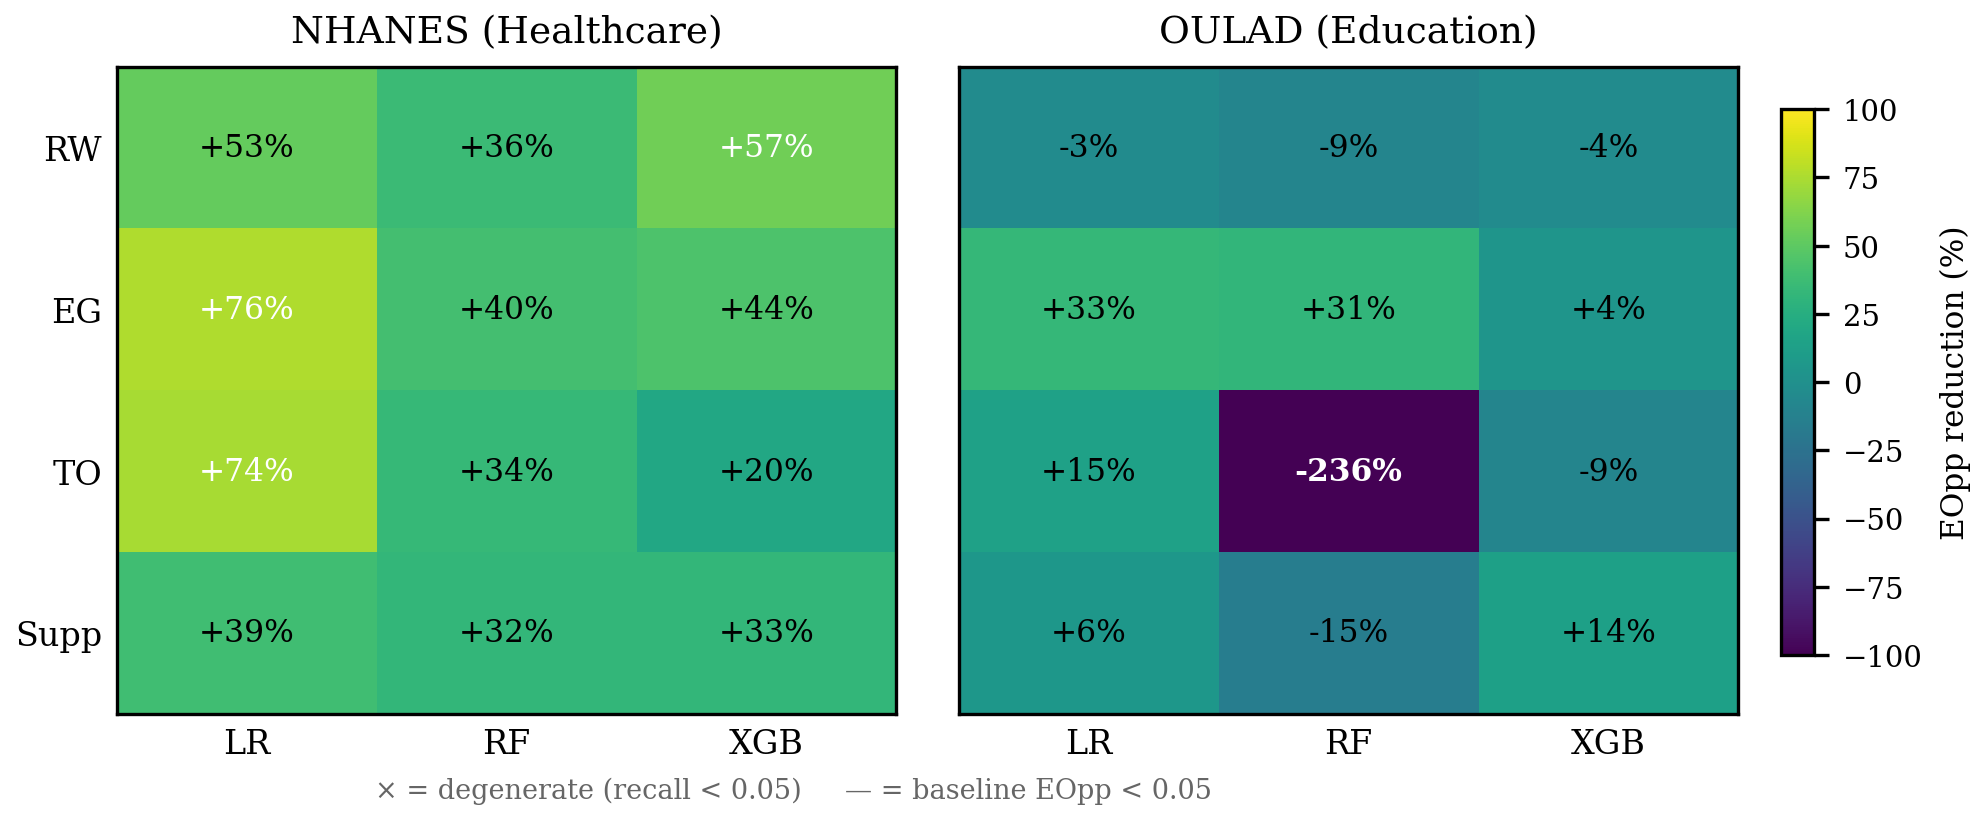
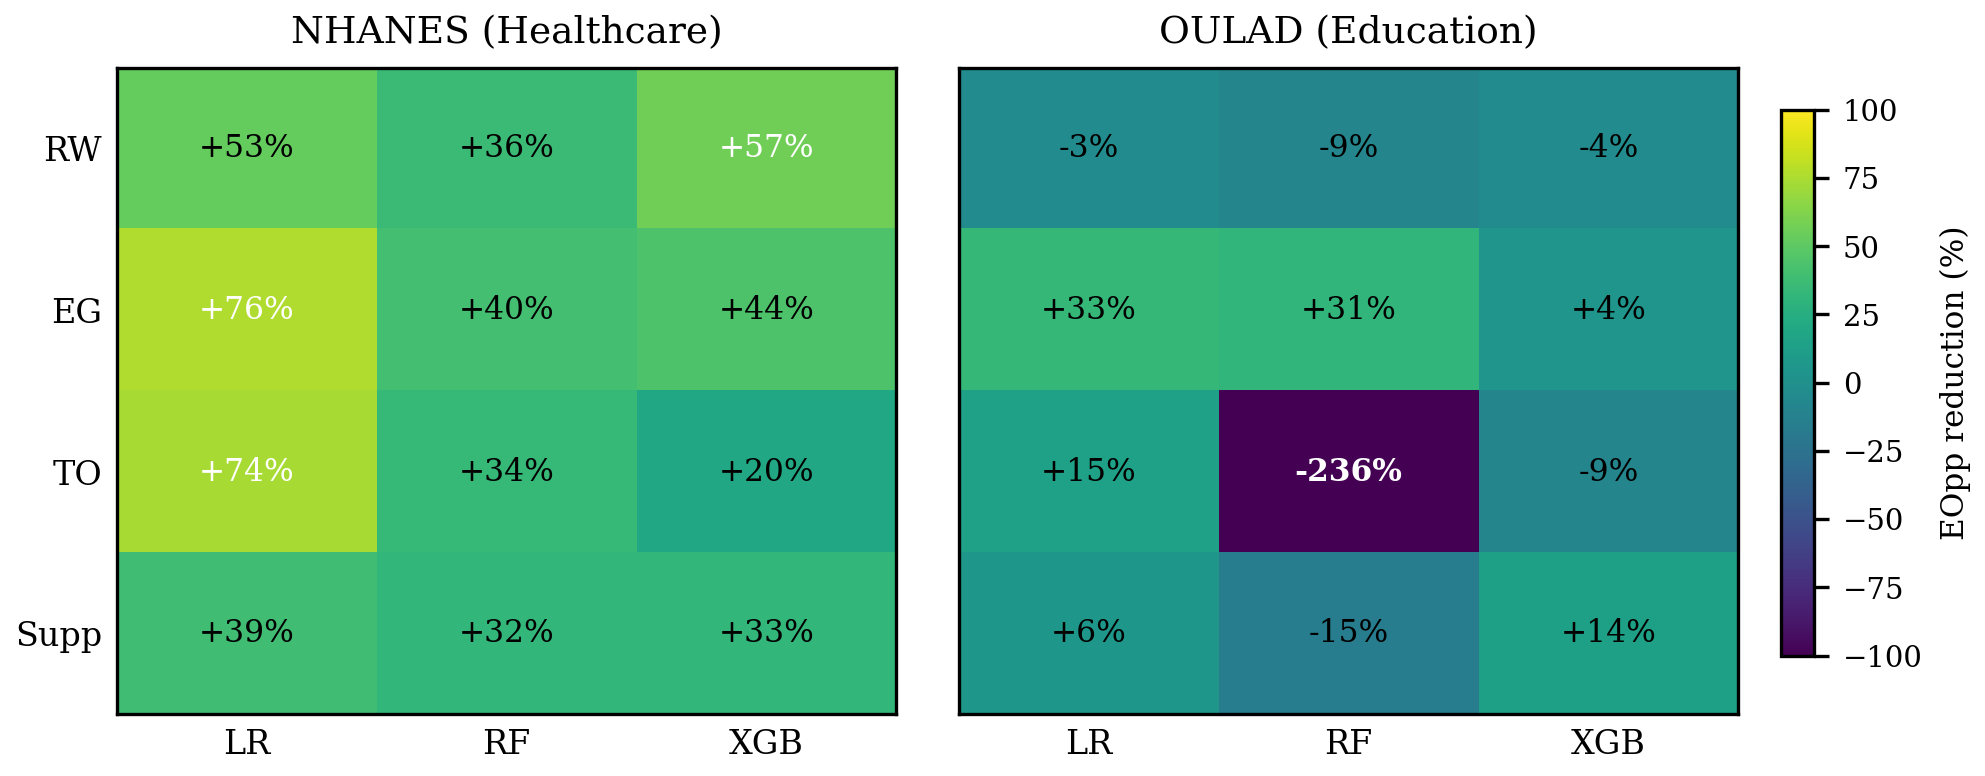
day20 update visualization

diff --git a/src/nhanes/visualization.py b/src/nhanes/visualization.py
@@ -1046,17 +1046,9 @@ def f4_mit_detail_gap_dumbbell():
 
 
 # Cross-domain code
-# ═══════════════════════════════════════════════════════════════════════════
 # Shared helper: compute % EOpp reduction per (model, method)
-# averaged across valid attributes.
 # Filters: recall < 0.05 (degenerate), baseline EOpp < 0.05 (unstable %)
-# ═══════════════════════════════════════════════════════════════════════════
 def _eopp_reduction_matrix(df, attrs, recall_thr=0.05, base_thr=0.05):
-    """
-    Returns:
-        mat: (4 methods × 3 models) array of avg % reduction, NaN where no valid attr
-        degen: same shape, True where ALL valid attrs were degenerate
-    """
     methods = ["Reweighing", "ExponentiatedGradient", "ThresholdOptimizer", "Suppression"]
     mat = np.full((len(methods), len(MODEL_ORDER)), np.nan)
     mask_degen = np.zeros_like(mat, dtype=bool)
@@ -1093,12 +1085,58 @@ def _eopp_reduction_matrix(df, attrs, recall_thr=0.05, base_thr=0.05):
     return mat, mask_degen
  
  
-# ═══════════════════════════════════════════════════════════════════════════
-# [CROSSDOMAIN] X1 — Side-by-side heatmap: % EOpp reduction
-#
-# Best for PAPER. Shows per-model × per-method granularity.
-# Color scale clipped to ±100% so outliers (RF+TO = -236%) stay readable.
-# ═══════════════════════════════════════════════════════════════════════════
+
+"""
+figure 11: Cross-Domain Heatmap — % EOpp Reduction per Model × Method
+
+Each cell = mean % EOpp reduction across sensitive attributes for that model+method combo.
+Positive = improvement (green/yellow), negative = backfire (dark purple).
+Baseline EOpp < 0.05 attributes skipped (nothing to reduce).
+Degenerate models (recall < 0.05) excluded and marked ×.
+
+★ NHANES all positive (every cell +20% or above).
+  OULAD mixed: only EG consistently positive, other 3 methods near-zero or backfire.
+
+# NHANES(left panel):
+2. LR benefits most: EG +76%, TO +74%, RW +53%
+   → linear boundary is easiest to constrain/adjust
+3. EG has the highest floor (+40%) and ceiling (+76%)
+   → strongest single method, but variable across models (range 36pp)
+4. Suppression most stable across models (range only 7pp) but lowest ceiling (+39%)
+   → helps everywhere, solves nowhere
+5. TO most variable: LR +74% vs XGB +20% (range 54pp)
+   → highly dependent on base model, not blindly transferable   
+
+
+OULAD (right panel):
+1. RW: all three models negative (-3%, -9%, -4%)
+   → reweighing consistently backfires in education domain.
+   OULAD baseline bias is already mild, reweighing overshoots
+2. EG: the only method with meaningful positive numbers
+   (LR +33%, RF +31%), but XGB only +4%
+   → in-processing constraint is the only thing that transfers
+3. ★ RF+TO = -236%. catastrophic backfire.
+   this is the single most extreme cell in the entire figure.
+   ThresholdOptimizer on RF amplifies disparity instead of reducing it.
+4. Suppression: mixed bag (LR +6%, RF -15%, XGB +14%)
+   → no clear direction, confirms suppression is unreliable
+
+Cross-domain patterns:
+1. ★ the two domains have fundamentally different fairness landscapes.
+   NHANES has deep structural bias (race EOpp up to 0.68, income 0.47)
+   that methods can meaningfully reduce.
+   OULAD has mild baseline bias — mitigation methods often overshoot
+   or have nothing meaningful to fix, leading to near-zero or negative results.
+2. EG is the only method that works in both domains.
+   RW transfers worst (strong in NHANES, backfires in OULAD).
+   TO is domain-dependent and unstable (strong in NHANES, catastrophic on OULAD RF).
+3. RF is the problematic model in OULAD: TO -236%, Supp -15%, RW -9%.
+   only EG (+31%) saves it. in NHANES, RF is middle-of-the-road, no disasters.
+   → same model, opposite behavior across domains
+4. practical takeaway: mitigation methods designed for high-bias settings
+   (healthcare) do not safely transfer to low-bias settings (education).
+   applying them blindly can make fairness worse, not better.
+"""
 def x1_crossdomain_heatmap():
     ieee_style()
     methods = ["Reweighing", "ExponentiatedGradient", "ThresholdOptimizer", "Suppression"]
@@ -1159,23 +1197,42 @@ def x1_crossdomain_heatmap():
     cbar.set_label("EOpp reduction (%)", fontsize=7.5, labelpad=4)
     cbar.ax.tick_params(labelsize=7)
  
-    fig.text(
-        0.44, 0.01,
-        "× = degenerate (recall < 0.05)     — = baseline EOpp < 0.05",
-        ha="center", fontsize=6.5, color="#666666",
-    )
+    # fig.text(
+    #     0.44, 0.01,
+    #     "× = degenerate (recall < 0.05)     — = baseline EOpp < 0.05",
+    #     ha="center", fontsize=6.5, color="#666666",
+    # )
     save(fig, "x1_crossdomain_heatmap")
  
 
 
 
+"""
+figure 12: Cross-Domain Bar Chart — Avg EOpp Reduction per Method
 
-# ═══════════════════════════════════════════════════════════════════════════
-# [CROSSDOMAIN] X2 — Grouped bar: avg % EOpp reduction per method
-#
-# Best for PPT / viva. Simpler aggregate view.
-# Error bars = range across 3 models.
-# ═══════════════════════════════════════════════════════════════════════════
+Each bar = average % EOpp reduction across 3 models × 3 sensitive attrs,
+for one mitigation method in one domain.
+Error bars = std across model×attribute combos (shows variability).
+Positive bar = method reduced bias on average. Negative = made it worse.
+Degenerate cases (recall < 0.05) excluded before averaging.
+
+★ NHANES (blue): all four methods positive (+34% to +54%).
+  EG best (+54%), RW close behind (+49%), TO and Supp lower but still solid.
+  All error bars moderate — methods work fairly consistently.
+
+★ OULAD (orange): only EG positive (+23%), everything else near-zero or negative.
+  TO = -77%, driven by RF+TO catastrophic backfire (-236%).
+  RW = -5%, Supp = +2% — basically no effect or slight harm.
+
+Key takeaway:
+1. EG is the only method that transfers across domains.
+2. NHANES has deep bias → methods have room to improve.
+   OULAD has mild bias → methods overshoot or have nothing to fix.
+3. TO is the riskiest method: best-case +43% (NHANES), worst-case -77% (OULAD).
+   High variance = not safe to deploy without domain validation.
+4. RW and Supp are near-zero in OULAD — harmless but useless.
+"""
+
 def x2_crossdomain_bar():
     ieee_style()
     methods = ["Reweighing", "ExponentiatedGradient", "ThresholdOptimizer", "Suppression"]
@@ -1248,7 +1305,7 @@ def x2_crossdomain_bar():
     ax.set_xticklabels([METHOD_SHORT[m] for m in methods])
     ax.set_ylabel("Avg EOpp reduction (%)")
     ax.set_title("Cross-domain mitigation effectiveness")
-    ax.legend(loc="upper left", framealpha=0.9)
+    ax.legend(loc="upper right", framealpha=0.9)
     ax.spines[["top", "right"]].set_visible(False)
  
     # clip y so the RF+TO outlier does not dominate
@@ -1273,112 +1330,17 @@ def x2_crossdomain_bar():
             arrowprops=dict(arrowstyle="->", color="#c0392b", lw=1.2),
         )
  
-    ax.text(
-        0.5, -0.12,
-        "Error bars = range across 3 models. "
-        "Excludes degenerate (recall < 0.05) and near-zero baselines (EOpp < 0.05)",
-        transform=ax.transAxes, ha="center", fontsize=6, color="#666666",
-    )
+    # ax.text(
+    #     0.5, -0.12,
+    #     "Error bars = range across 3 models. "
+    #     "Excludes degenerate (recall < 0.05) and near-zero baselines (EOpp < 0.05)",
+    #     transform=ax.transAxes, ha="center", fontsize=6, color="#666666",
+    # )
     fig.tight_layout()
     save(fig, "x2_crossdomain_bar")
  
  
-# ═══════════════════════════════════════════════════════════════════════════
-# [CROSSDOMAIN] X3 — Dumbbell: absolute EOpp baseline → best mitigation
-#
-# Complementary view showing raw disparity levels across domains.
-# Answers: "How hard is each domain to mitigate?"
-# ═══════════════════════════════════════════════════════════════════════════
-def x3_crossdomain_dumbbell():
-    ieee_style()
- 
-    def _best_per_model(df, attrs, recall_thr=0.05):
-        records = []
-        for model in MODEL_ORDER:
-            base_vals, best_vals = [], []
-            for attr in attrs:
-                sub = df[(df["model"] == model) & (df["sensitive_attr"] == attr)]
-                baseline = sub[sub["miti_method"] == "Baseline"]["Equal Opportunity"].values
-                if len(baseline) == 0:
-                    continue
-                base_eopp = baseline[0]
-                base_vals.append(base_eopp)
-                miti = sub[
-                    (sub["miti_method"] != "Baseline") & (sub["recall"] >= recall_thr)
-                ]
-                if len(miti) > 0:
-                    best_idx = miti["Equal Opportunity"].idxmin()
-                    best_vals.append(miti.loc[best_idx, "Equal Opportunity"])
-                else:
-                    best_vals.append(base_eopp)
-            records.append({
-                "model": model,
-                "baseline": np.mean(base_vals),
-                "best": np.mean(best_vals),
-            })
-        return pd.DataFrame(records)
- 
-    nh_best = _best_per_model(mit_df, ATTR)
-    ou_best = _best_per_model(oulad_df, OULAD_ATTR)
- 
-    fig, ax = plt.subplots(figsize=(7.16, 2.8))
- 
-    C_BASE = "#c0392b"
-    C_BEST = "#27ae60"
-    C_NH = "#2980b9"
-    C_OU = "#e67e22"
- 
-    y = 0
-    gap = 0.6
-    for i, model in enumerate(MODEL_ORDER):
-        nh_row = nh_best[nh_best["model"] == model].iloc[0]
-        ou_row = ou_best[ou_best["model"] == model].iloc[0]
- 
-        # OULAD row (bottom of pair)
-        ax.plot(
-            [ou_row["baseline"], ou_row["best"]], [y, y],
-            color="#dddddd", lw=1.5, zorder=1,
-        )
-        ax.scatter(ou_row["baseline"], y, s=50, color=C_BASE, zorder=3,
-                   edgecolor="white", linewidth=0.5)
-        ax.scatter(ou_row["best"], y, s=50, color=C_BEST, zorder=3,
-                   edgecolor="white", linewidth=0.5)
-        ax.text(-0.02, y, f"{MODEL_SHORT[model]} — OULAD", ha="right",
-                va="center", fontsize=7.5, color=C_OU)
-        y += 1
- 
-        # NHANES row (top of pair)
-        ax.plot(
-            [nh_row["baseline"], nh_row["best"]], [y, y],
-            color="#dddddd", lw=1.5, zorder=1,
-        )
-        ax.scatter(nh_row["baseline"], y, s=50, color=C_BASE, zorder=3,
-                   edgecolor="white", linewidth=0.5)
-        ax.scatter(nh_row["best"], y, s=50, color=C_BEST, zorder=3,
-                   edgecolor="white", linewidth=0.5)
-        ax.text(-0.02, y, f"{MODEL_SHORT[model]} — NHANES", ha="right",
-                va="center", fontsize=7.5, color=C_NH)
-        y += gap
- 
-    ax.set_xlim(-0.02, max(nh_best["baseline"].max(), 0.5) + 0.05)
-    ax.set_ylim(-0.5, y - gap + 0.5)
-    ax.set_yticks([])
-    ax.set_xlabel("Average EOpp Difference (across attributes)")
-    ax.set_title("Baseline vs Best Mitigation: NHANES and OULAD")
-    ax.spines[["top", "right", "left"]].set_visible(False)
- 
-    ax.axvline(0.1, color="grey", ls="--", lw=0.8, alpha=0.5)
-    ax.text(0.1, y - gap + 0.3, "0.1", ha="center", fontsize=6.5, color="grey")
- 
-    legend_elements = [
-        Line2D([0], [0], marker="o", color="w", markerfacecolor=C_BASE,
-               markersize=7, label="Baseline"),
-        Line2D([0], [0], marker="o", color="w", markerfacecolor=C_BEST,
-               markersize=7, label="Best mitigation"),
-    ]
-    ax.legend(handles=legend_elements, loc="lower right", fontsize=7, framealpha=0.9)
-    fig.tight_layout()
-    save(fig, "x3_crossdomain_dumbbell")
+
 
 
 
@@ -1395,4 +1357,4 @@ if __name__ == "__main__":
     f4_mit_detail_gap_dumbbell()
     x1_crossdomain_heatmap()
     x2_crossdomain_bar()
-    x3_crossdomain_dumbbell()
+    
